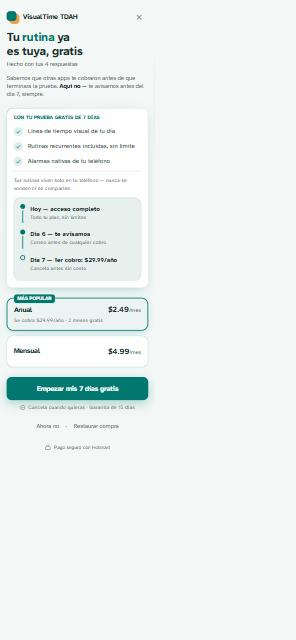
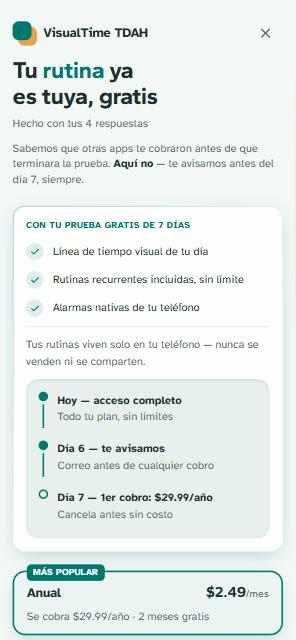
fix: craft visual (ronda 6) — gesto de completar, modal propio, jerarquía consolidada
- Onboarding: modal propio con tokens de marca en vez de window.confirm() al
  salir; atajos de teclado 1-4 para elegir opción; alineación del ícono de
  ayuda corregida (pt-3, no pt-1).
- Paywall: jerarquía tipográfica consolidada (~7 tamaños -> 1 tamaño de cuerpo
  de 14px); plan elegido persiste entre visitas (localStorage); chip de
  garantía con el sello de marca (identidad ownable propia de esta pantalla).
- Pantalla principal: gesto de deslizar para completar/desmarcar un bloque
  (con fallback de tap), corrigiendo un conflicto drag/click que desmarcaba
  el bloque apenas se completaba.

diff --git a/app/paywall/page.tsx b/app/paywall/page.tsx
@@ -6,9 +6,20 @@ import { motion, useReducedMotion } from 'motion/react';
 import { X, Lock, ShieldCheck, LifeBuoy } from 'lucide-react';
 import { leerRespuestas, type Respuestas } from '@/lib/onboarding';
 import { CheckCustom, Hairline } from '@/components/landing/ui';
-import { LogoMark } from '@/components/ui/Marca';
+import { LogoMark, EcoChip } from '@/components/ui/Marca';
 
 type PlanId = 'anual' | 'mensual';
+
+const KEY_PLAN = 'vt_plan_elegido';
+
+function leerPlanGuardado(): PlanId {
+  try {
+    const v = localStorage.getItem(KEY_PLAN);
+    return v === 'mensual' ? 'mensual' : 'anual';
+  } catch {
+    return 'anual';
+  }
+}
 
 /** Conteo animado del precio (baseline obligatorio: ningún número héroe estático —
  * 07/14). Cuenta de 0 al valor real en 500ms al montar. */
@@ -36,13 +47,25 @@ function PrecioAnimado({ valor, reducedMotion }: { valor: number; reducedMotion:
 export default function Paywall() {
   const router = useRouter();
   const [respuestas, setRespuestas] = useState<Respuestas | null>(null);
-  const [plan, setPlan] = useState<PlanId>('anual');
+  const [plan, setPlanState] = useState<PlanId>('anual');
   const [restauro, setRestauro] = useState<'idle' | 'buscando' | 'sin-compra'>('idle');
   const reducedMotion = useReducedMotion();
 
   useEffect(() => {
     setRespuestas(leerRespuestas());
+    setPlanState(leerPlanGuardado());
   }, []);
+
+  // h7/flexibilidad: recordar el plan elegido entre visitas (antes siempre
+  // reiniciaba en "Anual" aunque el usuario hubiera elegido Mensual antes).
+  const setPlan = (p: PlanId) => {
+    setPlanState(p);
+    try {
+      localStorage.setItem(KEY_PLAN, p);
+    } catch {
+      // sin persistencia disponible (modo privado/cuota) — el flujo sigue igual
+    }
+  };
 
   const rutina = respuestas?.p3 || 'rutina';
   const nRespuestas = respuestas ? Object.keys(respuestas).length : 4;
@@ -140,14 +163,14 @@ export default function Paywall() {
               ].map((f) => (
                 <div key={f} className="flex items-center gap-3">
                   <CheckCustom />
-                  <span className="text-[15px] text-[var(--text-primary)]">{f}</span>
+                  <span className="text-[14px] text-[var(--text-primary)]">{f}</span>
                 </div>
               ))}
             </div>
 
             {/* Especificidad real (sin inventar números): lo que SÍ podemos
                 prometer con certeza sobre la arquitectura 100% local del MVP. */}
-            <p className="mt-3 border-t border-[color-mix(in_oklab,var(--text-tertiary)_18%,transparent)] pt-3 text-[13px] text-[var(--text-secondary)]">
+            <p className="mt-3 border-t border-[color-mix(in_oklab,var(--text-tertiary)_18%,transparent)] pt-3 text-[14px] text-[var(--text-secondary)]">
               Tus rutinas viven solo en tu teléfono — nunca se venden ni se comparten.
             </p>
 
@@ -175,8 +198,8 @@ export default function Paywall() {
                     {i < 2 && <span className="mt-1 w-[2px] flex-1 bg-[var(--accent)]" />}
                   </div>
                   <div className="pb-1">
-                    <p className="text-[15px] font-semibold text-[var(--text-primary)]">{n.titulo}</p>
-                    <p className="text-[13px] text-[var(--text-secondary)]">{n.sub}</p>
+                    <p className="text-[14px] font-semibold text-[var(--text-primary)]">{n.titulo}</p>
+                    <p className="text-[14px] text-[var(--text-secondary)]">{n.sub}</p>
                   </div>
                 </div>
               ))}
@@ -211,7 +234,7 @@ export default function Paywall() {
                 <span className="text-[13px] font-medium text-[var(--text-secondary)]">/mes</span>
               </span>
             </div>
-            <span className="mt-1 text-[13px] text-[var(--text-secondary)]">Se cobra $29.99/año · 2 meses gratis</span>
+            <span className="mt-1 text-[14px] text-[var(--text-secondary)]">Se cobra $29.99/año · 2 meses gratis</span>
           </motion.button>
 
           <motion.button
@@ -245,11 +268,18 @@ export default function Paywall() {
         >
           Empezar mis 7 días gratis
         </motion.button>
-        {/* Garantía nombrada CERCA del CTA (52 §4 / 50 C2-7): no solo al fondo de la pantalla. */}
-        <p className="mt-2 flex items-center justify-center gap-1.5 text-center text-[13px] text-[var(--text-secondary)]">
-          <ShieldCheck size={14} aria-hidden="true" className="shrink-0" />
+        {/* Garantía nombrada CERCA del CTA (52 §4 / 50 C2-7): no solo al fondo de
+            la pantalla. EcoChip aquí da a esta pantalla su propio punto de
+            identidad ownable (antes solo vivía en el logo del header — veredicto
+            del revisor: "fuera del acento teal, sin dispositivo visual propio"). */}
+        <div className="mt-3 flex items-center justify-center gap-2 text-center text-[14px] text-[var(--text-secondary)]">
+          <EcoChip size={26} tone="muted">
+            <span className="flex size-[26px] items-center justify-center rounded-full bg-[var(--chip-bg)]">
+              <ShieldCheck size={13} color="var(--accent)" aria-hidden="true" />
+            </span>
+          </EcoChip>
           Cancela cuando quieras · Garantía de 15 días
-        </p>
+        </div>
 
         <div className="mt-4 flex items-center justify-center gap-4 text-[14px] font-medium text-[var(--text-secondary)]">
           <button type="button" onClick={() => router.push('/')} className="py-2">
@@ -268,12 +298,12 @@ export default function Paywall() {
             animate={{ opacity: 1 }}
             className="mt-2 flex flex-col items-center gap-2 text-center"
           >
-            <p className="text-[13px] text-[var(--text-secondary)]">
+            <p className="text-[14px] text-[var(--text-secondary)]">
               No encontramos una compra para este dispositivo todavía.
             </p>
             <a
               href="mailto:soporte@visualtimetdah.app"
-              className="flex items-center gap-1.5 text-[13px] font-semibold text-[var(--accent)]"
+              className="flex items-center gap-1.5 text-[14px] font-semibold text-[var(--accent)]"
             >
               <LifeBuoy size={14} aria-hidden="true" />
               Escribir a soporte

diff --git a/app/onboarding/page.tsx b/app/onboarding/page.tsx
@@ -82,6 +82,23 @@ function PantallaPregunta({
     window.setTimeout(() => onResponder(opcion), PAUSA_SELECCION_MS);
   };
 
+  // Atajo de teclado (h7/flexibilidad): teclas 1-4 eligen la opción
+  // correspondiente — antes solo el mouse/tap funcionaba para las opciones
+  // predefinidas (el input "Otra cosa" ya respondía a Enter).
+  useEffect(() => {
+    const onKeyDown = (e: KeyboardEvent) => {
+      if (otraCosaAbierta) return;
+      const n = Number(e.key);
+      if (n >= 1 && n <= pregunta.opciones.length) {
+        e.preventDefault();
+        elegir(pregunta.opciones[n - 1]);
+      }
+    };
+    window.addEventListener('keydown', onKeyDown);
+    return () => window.removeEventListener('keydown', onKeyDown);
+    // eslint-disable-next-line react-hooks/exhaustive-deps
+  }, [otraCosaAbierta, seleccionada]);
+
   return (
     <motion.div
       key={pregunta.id}
@@ -215,7 +232,10 @@ function PantallaPregunta({
               <Sparkles size={17} strokeWidth={2} color="var(--accent)" aria-hidden="true" />
             </span>
           </EcoChip>
-          <p className="pt-1 text-[13px] leading-relaxed text-[var(--text-secondary)]">
+          {/* pt-3 (no pt-1): el EcoChip mide 44px total (36px + el eco offset de
+              8px) — pt-1 dejaba el ícono 2-3px más arriba que la primera línea
+              de texto (desalineado, veredicto del revisor). */}
+          <p className="pt-3 text-[13px] leading-relaxed text-[var(--text-secondary)]">
             <span className="font-semibold text-[var(--text-primary)]">Con tus respuestas</span> armamos tu
             línea de tiempo al instante — nada se comparte ni se publica sin que tú lo decidas.
           </p>
@@ -328,6 +348,7 @@ export default function Onboarding() {
   const router = useRouter();
   const [paso, setPaso] = useState<'pregunta' | 'loading'>('pregunta');
   const [indice, setIndice] = useState(0);
+  const [confirmarSalida, setConfirmarSalida] = useState(false);
   const respuestas = useRef<Partial<Respuestas>>({});
 
   const responder = (valor: string) => {
@@ -370,12 +391,16 @@ export default function Onboarding() {
             existía el logo-link del header, poco reconocible como "salir".
             Confirma si ya respondió algo: salir a mitad de camino borra esas
             respuestas (viven solo en un ref hasta terminar el recorrido) —
-            una acción destructiva disfrazada de neutra, ahora con aviso. */}
+            una acción destructiva disfrazada de neutra, ahora con aviso.
+            Modal propio con los tokens de marca, no window.confirm() nativo
+            (rompía el tono calmado de la ficha — veredicto del revisor). */}
         <button
           type="button"
           onClick={() => {
-            if (indice === 0 || window.confirm('¿Seguro que quieres salir? Vas a perder lo que ya respondiste.')) {
+            if (indice === 0) {
               router.push('/');
+            } else {
+              setConfirmarSalida(true);
             }
           }}
           className="flex size-11 items-center justify-center text-[var(--text-secondary)]"
@@ -406,6 +431,49 @@ export default function Onboarding() {
           )}
         </AnimatePresence>
       </div>
+
+      <AnimatePresence>
+        {confirmarSalida && (
+          <motion.div
+            initial={{ opacity: 0 }}
+            animate={{ opacity: 1 }}
+            exit={{ opacity: 0 }}
+            className="fixed inset-0 z-20 flex items-end justify-center bg-[rgb(15_23_21_/_0.35)] px-4 pb-4 sm:items-center"
+            onClick={() => setConfirmarSalida(false)}
+          >
+            <motion.div
+              initial={{ y: 24, opacity: 0 }}
+              animate={{ y: 0, opacity: 1 }}
+              exit={{ y: 24, opacity: 0 }}
+              onClick={(e) => e.stopPropagation()}
+              className="w-full max-w-[420px] rounded-[var(--radius-card)] border border-[color-mix(in_oklab,var(--text-tertiary)_18%,transparent)] bg-[var(--surface)] p-5 shadow-[0_12px_40px_-10px_rgb(15_118_110_/_0.35)]"
+            >
+              <h2 className="text-[18px] font-bold text-[var(--text-primary)] [font-family:var(--font-display)]">
+                ¿Seguro que quieres salir?
+              </h2>
+              <p className="mt-2 text-[14px] leading-relaxed text-[var(--text-secondary)]">
+                Vas a perder lo que ya respondiste.
+              </p>
+              <div className="mt-5 flex flex-col gap-3">
+                <button
+                  type="button"
+                  onClick={() => router.push('/')}
+                  className="flex h-12 items-center justify-center rounded-[var(--radius-button)] bg-[var(--error)] text-[15px] font-semibold text-[var(--bg)]"
+                >
+                  Sí, salir
+                </button>
+                <button
+                  type="button"
+                  onClick={() => setConfirmarSalida(false)}
+                  className="flex h-12 items-center justify-center rounded-[var(--radius-button)] text-[15px] font-semibold text-[var(--text-primary)]"
+                >
+                  Seguir respondiendo
+                </button>
+              </div>
+            </motion.div>
+          </motion.div>
+        )}
+      </AnimatePresence>
     </main>
   );
 }

diff --git a/app/app/page.tsx b/app/app/page.tsx
@@ -279,6 +279,10 @@ export default function Hoy() {
   const [bloqueBorrado, setBloqueBorrado] = useState<Bloque | null>(null);
   const [celebracion, setCelebracion] = useState<number | null>(null);
   const rachaAnterior = useRef<number | null>(null);
+  // Suprime el onClick que Framer Motion sigue disparando al soltar un drag —
+  // sin esto, deslizar marcaba el bloque y el click que sigue lo desmarcaba
+  // de inmediato (bug encontrado al probar el gesto).
+  const huboArrastre = useRef(false);
   const reducedMotion = useReducedMotion();
   const hoy = new Date();
 
@@ -428,13 +432,38 @@ export default function Hoy() {
           {bloques.map((b) => {
             const hecho = estaCompletado(hoy, b.id);
             return (
-              <motion.li key={b.id} variants={variantesItem} className="flex items-stretch gap-2">
+              <motion.li key={b.id} variants={variantesItem} className="relative flex items-stretch gap-2">
+                {/* Pista de "swipe para completar" — aparece detrás del bloque,
+                    para el usuario frecuente que quiere marcar sin apuntar al
+                    tap (h7/flexibilidad: el tap sigue siendo el fallback principal). */}
+                <span
+                  aria-hidden="true"
+                  className="pointer-events-none absolute inset-y-0 left-0 right-11 flex items-center justify-center rounded-[var(--radius-card)] bg-[var(--accent)] text-[13px] font-semibold text-[var(--bg)]"
+                >
+                  {hecho ? 'Desmarcar' : 'Completar'}
+                </span>
                 <motion.button
                   type="button"
+                  drag="x"
+                  dragConstraints={{ left: 0, right: 0 }}
+                  dragElastic={0.15}
+                  dragSnapToOrigin
+                  onDragStart={() => {
+                    huboArrastre.current = true;
+                  }}
+                  onDragEnd={(_e, info) => {
+                    if (Math.abs(info.offset.x) > 70) marcar(b.id);
+                    window.setTimeout(() => {
+                      huboArrastre.current = false;
+                    }, 0);
+                  }}
                   whileTap={{ scale: 0.98 }}
-                  onClick={() => marcar(b.id)}
+                  onClick={() => {
+                    if (huboArrastre.current) return;
+                    marcar(b.id);
+                  }}
                   aria-pressed={hecho}
-                  className={`flex flex-1 items-center gap-3 rounded-[var(--radius-card)] border px-4 py-3 text-left shadow-[0_4px_16px_-8px_rgb(15_118_110_/_0.25)] transition-colors focus-visible:outline-none focus-visible:ring-2 focus-visible:ring-[var(--accent)] focus-visible:ring-offset-2 focus-visible:ring-offset-[var(--bg)] ${
+                  className={`relative flex flex-1 items-center gap-3 rounded-[var(--radius-card)] border px-4 py-3 text-left shadow-[0_4px_16px_-8px_rgb(15_118_110_/_0.25)] transition-colors focus-visible:outline-none focus-visible:ring-2 focus-visible:ring-[var(--accent)] focus-visible:ring-offset-2 focus-visible:ring-offset-[var(--bg)] ${
                     hecho
                       ? 'border-[color-mix(in_oklab,var(--text-tertiary)_15%,transparent)] bg-[var(--surface-2)]'
                       : 'border-[color-mix(in_oklab,var(--text-tertiary)_20%,transparent)] bg-[var(--surface)]'
